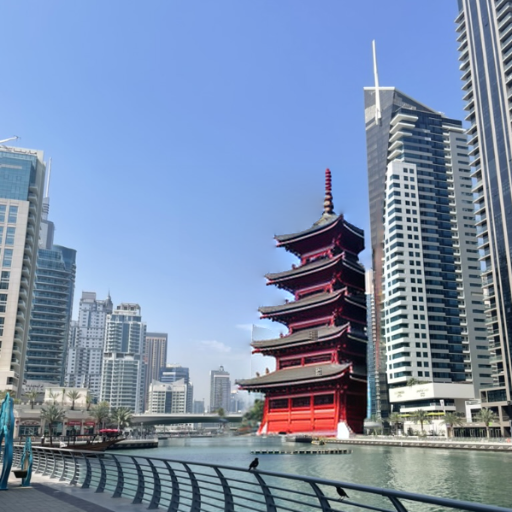
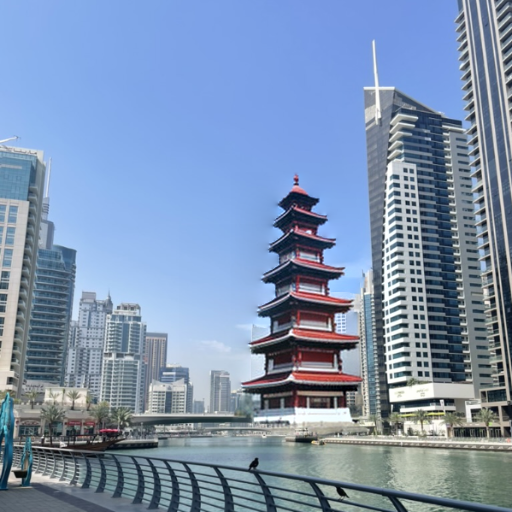
update unet hyperparams

Changed region(s): [[0.4062, 0.3125, 0.7812, 0.9062]]

diff --git a/improved_pipeline_v8.py b/improved_pipeline_v8.py
@@ -24,7 +24,7 @@ class ImprovedInpaintPipeline(InpaintPipeline):
         self.__class__.MASK_DEFAULT_PREPROC_OP = staticmethod(mask_op)
 
         # Use special values found in FreeU paper
-        self.unet.enable_freeu(s1=0.9, s2=0.2, b1=1.2, b2=1.4)
+        self.unet.enable_freeu(s1=0.9, s2=0.2, b1=1.4, b2=1.6)
 
     @torch.no_grad()
     def denoise(self, text_embeddings, init_latents, mask_tensor, num_inference_steps=50):

diff --git a/generate.py b/generate.py
@@ -2,7 +2,7 @@ import os
 
 from vanilla_pipeline import InpaintPipeline as VanillaPipeLine
 from ready_pipeline import PipeLine as ReadyPipeLine
-from improved_pipeline_v7 import ImprovedInpaintPipeline as ImprovedPipeLine
+from improved_pipeline_v8 import ImprovedInpaintPipeline as ImprovedPipeLine
 import torch
 
 import argparse
